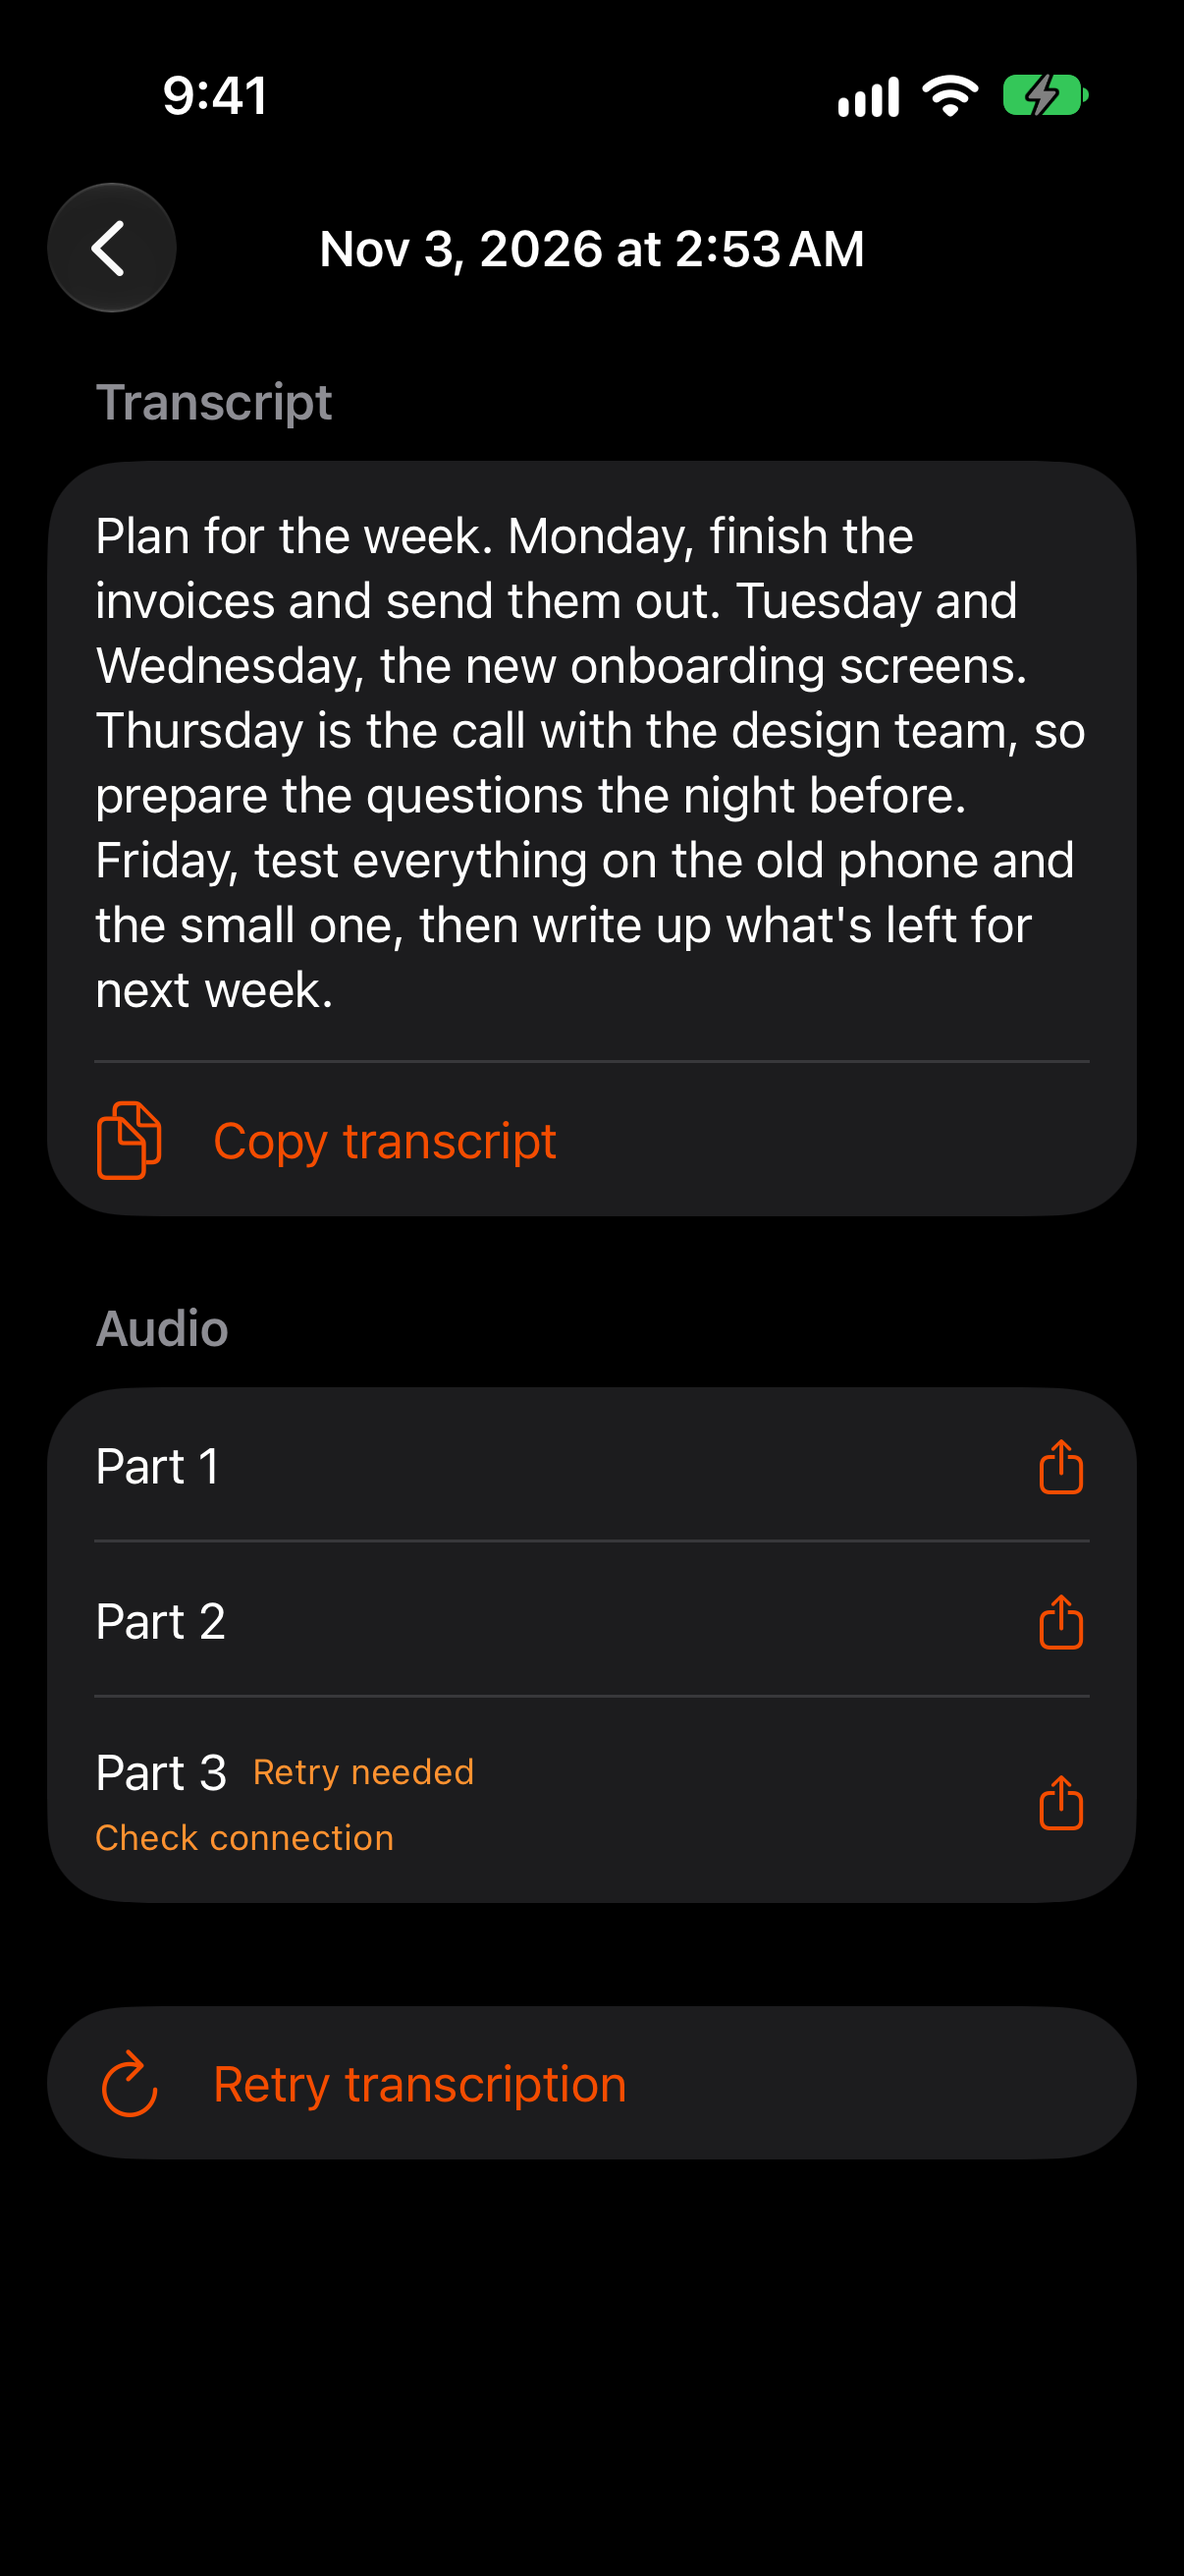
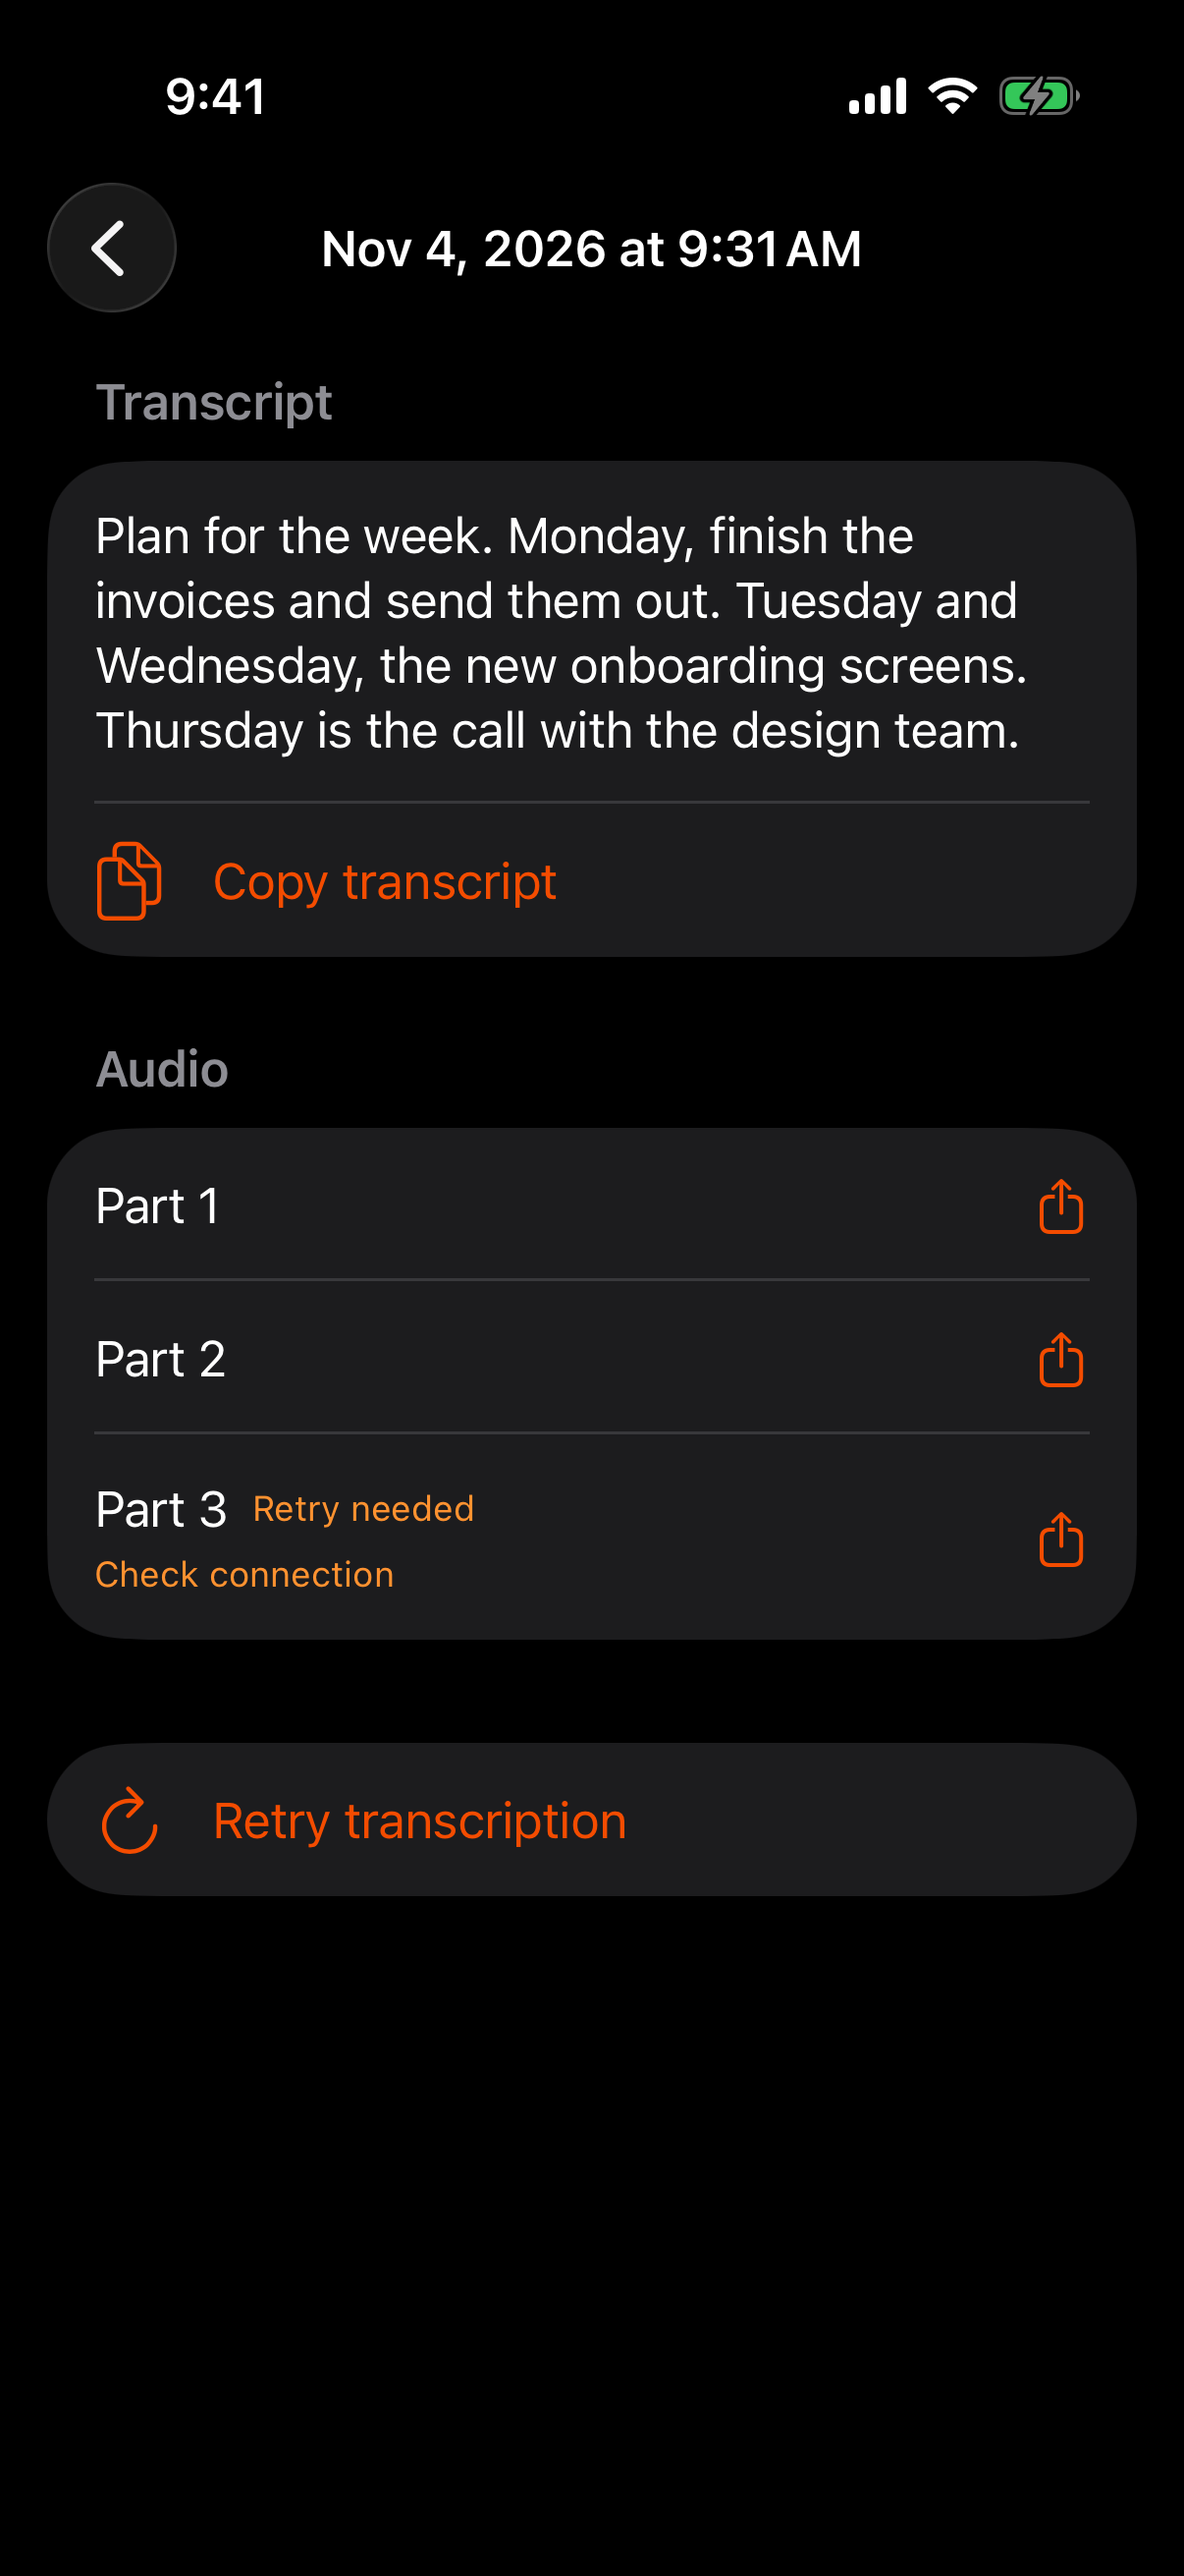
Celebrant and Vendors, GroqDictate and DataMeter pages as headed moments: a vendor's page beside Explore, the iPhone recordings list and a retry from the same made-up day, real GroqDictate timings, and DataMeter's network claim corrected to what it tracks

diff --git a/docs/DESIGN.md b/docs/DESIGN.md
@@ -134,15 +134,17 @@ Each page is a showcase of a few moments, each with a heading, a sentence or two
 How each page's screens were made, so they can be made again:
 
 - **Staff chat:** four moments, each a heading, a sentence or two, and the screens or clips that show it: the hold menu (clip), the 🎉 popper and ❤ hearts (clip, and a close-up clip), a message waiting with a clock then sent (two close-ups), and the assistant answering in a group and in its own chat. Simulator (iPhone 17, iOS 27) running a Release build of the chat app at `6c89c94a` made for it: the worktree `~/work/clients/celedom/worktrees/celedom-internal-chat/website-shots` rsynced to the same path on the Mac (exclude `/apps/mobile/ios` and `/apps/mobile/android` anchored, or the native modules' own `ios` folders go missing), `expo prebuild -p ios --clean`, then xcodebuild with `EXPO_PUBLIC_SOURCE_COMMIT`, `EXPO_PUBLIC_SERVER_ORIGIN=http://100.101.24.49:8892`, `DEBUG_INFORMATION_FORMAT=dwarf` (a dSYM makes a build cycle with the PostHog upload phase) and `CODE_SIGN_IDENTITY=-`. Its `Info.plist` has `NSAllowsLocalNetworking`, which makes iOS ignore `NSAllowsArbitraryLoads`, so the copy used here had that key deleted and arbitrary loads allowed, then was re-signed ad hoc. Server: user unit `website-shots-server` on `100.101.24.49:8892`, `pnpm db:reset` then `pnpm test-history --messages 3000` (its last step, spreading send times, hits SQLITE_BUSY while the server runs; run that SQL with the server stopped). Other people's messages come from `pnpm second-person --as <name>` (deleting one leaves a "This message was deleted" line, so don't). The waiting message was sent while the server process was stopped with SIGSTOP. Clips are `simctl io recordVideo`, which writes a frame only when the screen changes and draws the Dynamic Island: they're made constant-rate, cut to loops whose first and last frames match, the island painted out with `delogo`, and encoded at 680 px. The assistant's answers are real model output from the dev AI account (a few cents). Jira isn't connected on a local server, so ticket requests fail there.
-- **Celebrant and Vendors:** Explore, then Celebrant's request form to Adaeze Events & Decor (filled, not sent), then the existing Vendors chat. The request can't be sent: the review vendor has no service priced in USD or GHS (`offersService` in the backend's `service-requests.ts`), and giving it one means changing the App Store review account. Creating an event along the way left "Ama's 30th birthday" (21 Nov, East Legon) in client.test1's events on staging; the app and backend have no way to delete an event.
+- **Celebrant and Vendors:** three moments: Explore beside a vendor's page (contact details hidden until they accept), Celebrant's request form to Adaeze Events & Decor (filled, not sent), and the existing Vendors chat. The vendor's page was taken 2026-11-05 the same way as the others (EAS `e2e` builds 4.4.6 and 1.4.6 on an iPhone 17 Pro simulator, iOS 26.5, the review accounts). Copy the `.tar.gz` artifacts to the Mac, not the unpacked apps: 43 MB each against 148 MB over its hotspot. Relaunch the app before a shot, or a "◀ Celedom Vendors" back link sits in the status bar. The request can't be sent: the form offers only USD and GHS, while both review vendors price in NGN (`offersService` in the backend's `service-requests.ts`), and giving one a USD or GHS service means changing the App Store review account. These builds also predate October's chat changes (the request pinned at the top of the chat), which only the preview `.ipa` builds have; a newer simulator build would have to be made on the Mac. Creating an event along the way left "Ama's 30th birthday" (21 Nov, East Legon) in client.test1's events on staging; the app and backend have no way to delete an event.
 - **DataMeter:** both screens drawn offscreen at 2x from DataMeter's own `DashboardView` and `MenuBarRootView`, by a small render tool compiled against the repo (`UsageViewModel` with a stub sampler, a fixed "Wi‑Fi" network and a temporary SQLite file holding a made-up day). Nothing on the Mac's screen or its real database is touched. The page rounds the square captures at macOS 26's radii.
-- **GroqDictate on iPhone:** a Debug simulator build of `GroqDictateIOS`, with made-up recordings written straight into the app's `Application Support/GroqDictate/Sessions` (one `session.json` per recording plus silent `segment-000N.m4a` files): a 21-minute one in five parts, and one whose third part failed with "Check connection".
+- **GroqDictate on iPhone:** the recordings list and the recording waiting to retry, taken 2026-11-05 from a Debug simulator build of `GroqDictateIOS` (`xcodebuild -sdk iphonesimulator`, unsigned), with five made-up recordings written straight into the app's `Application Support/GroqDictate/Sessions` (one `session.json` per recording, ISO 8601 dates, plus a silent `segment-000N.m4a` per part): from 44 seconds to 21 minutes, one whose third part failed with "Check connection".
+- **GroqDictate timings:** the demo's 1.1 to 2.6 seconds are the `transcription_latency` entries (`total_ms`) in the Mac app's `~/Library/Application Support/GroqDictate/Diagnostics/diagnostics.jsonl`, nine dictations on 2026-11-03 over the Mac's iPhone hotspot; seven were under 1.6 s.
 
-Still open: the vendor's side of the same request (needs the decision above), and the chat list (the seeded server's list shows test-fixture chats like "Inline cards").
+Still open: the vendor's side of the same request (needs the decision above), and the staff chat list (the seeded server's list shows test-fixture chats like "Inline cards").
 
 To come back to, without holding the other pages up (noted 2026-11-05):
 
 - **Staff chat, hold clip:** the reaction effect in the chat app is broken and another session is fixing it. Once that lands, rebuild the app and re-record the hold clip (`chat-hold-*`, still `chat-menu-*`), light and dark.
 - **Staff chat, hold as a pair:** with that re-recording, also record a close-up of the reaction landing under the message, and show the hold step as a pair (full-phone clip beside the close-up), like the celebrations step.
 - **Captions:** Emmanuel finds them acceptable but wants another pass on the wording of every page later.
+- **Celebrant and Vendors, the request from both sides:** a request arriving in Vendors and the chat it opens, with the request pinned at the top, would be the strongest moment on that page. It needs a review vendor with a USD or GHS service on staging (Emmanuel's call) and a simulator build newer than 4.4.6.
 - **Test server:** `website-shots-server` stays running for the re-recording; stop it (`systemctl --user stop website-shots-server`) once the staff chat clips are final.
